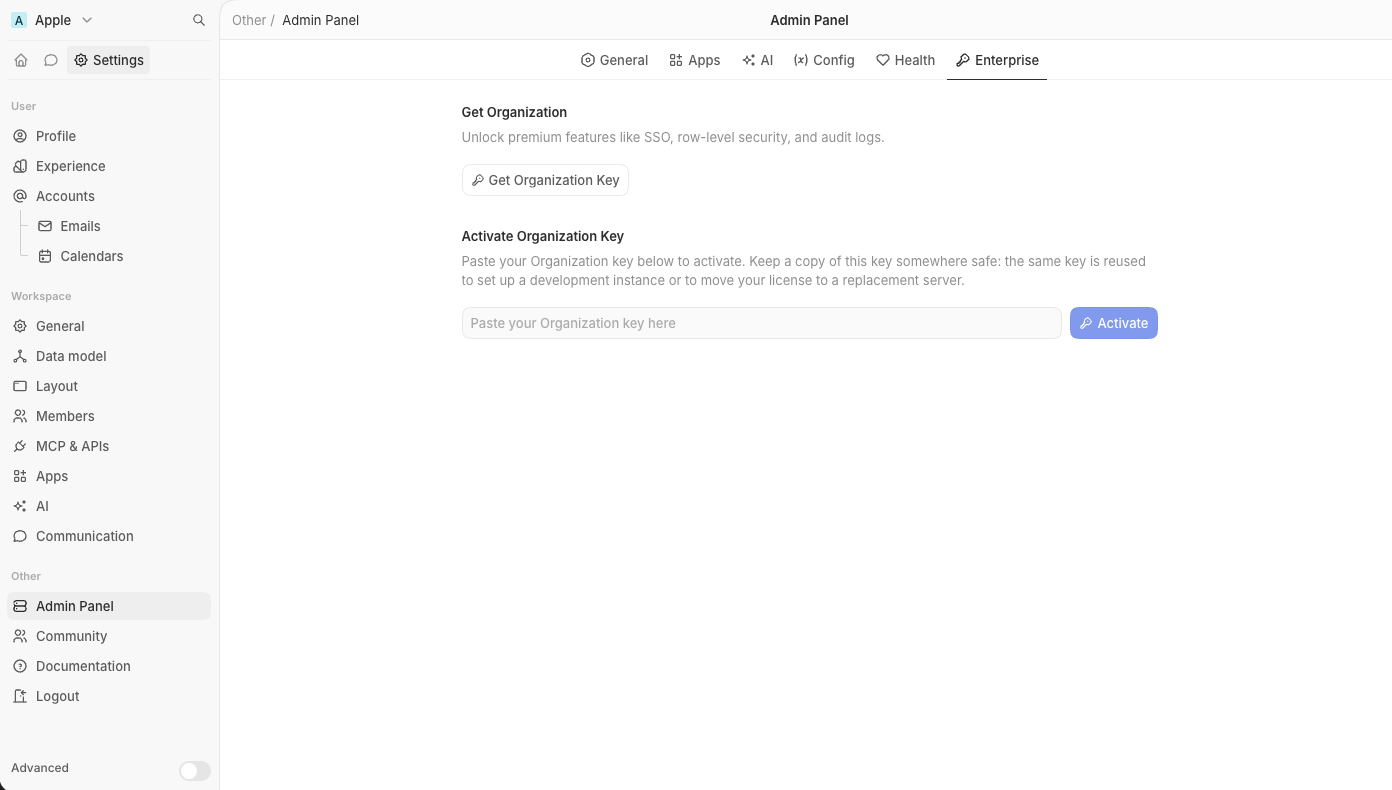
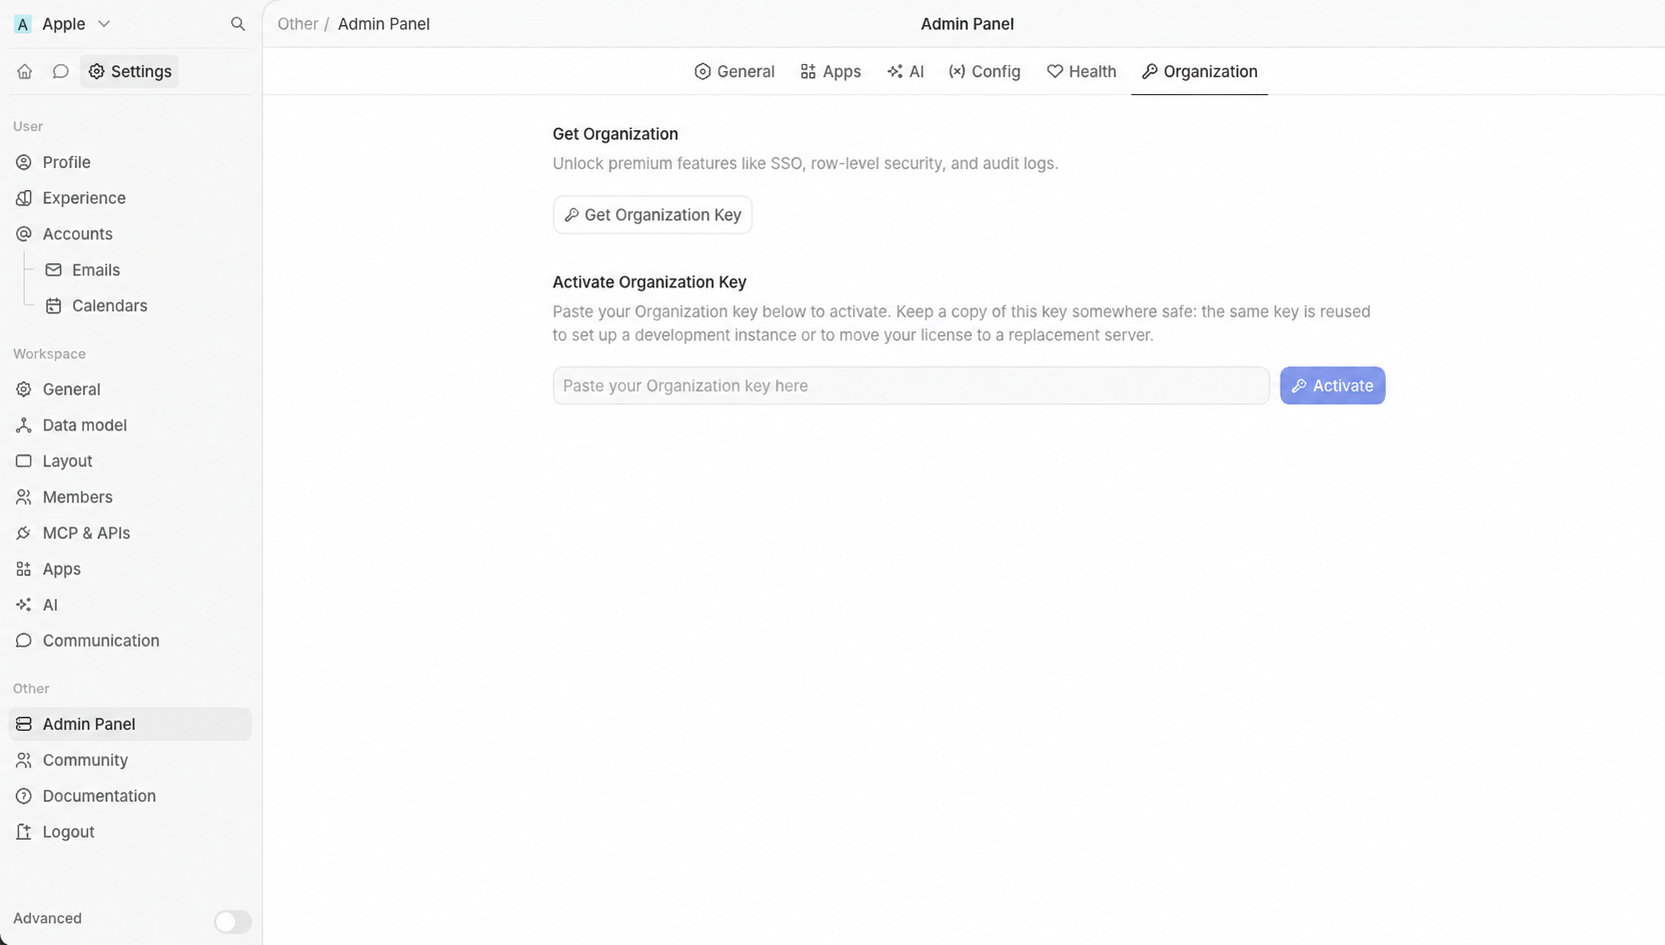
Complete Organization wording and activation route cleanup

diff --git a/packages/twenty-website/src/platform/routing/organization-activation-redirects.test.ts b/packages/twenty-website/src/platform/routing/organization-activation-redirects.test.ts
@@ -1,0 +1,38 @@
+import { type NextConfig } from 'next';
+import { pathToRegexp } from 'next/dist/compiled/path-to-regexp';
+
+import nextConfig from '../../../next.config';
+
+jest.mock('@opennextjs/cloudflare', () => ({
+  initOpenNextCloudflareForDev: jest.fn(),
+}));
+jest.mock('next-with-linaria', () => ({
+  __esModule: true,
+  default: (config: NextConfig) => config,
+}));
+
+describe('Organization activation redirects', () => {
+  it.each([
+    ['/enterprise/activate', '/organization/activate'],
+    ['/fr/enterprise/activate', '/fr/organization/activate'],
+    ['/ja/enterprise/activate', '/ja/organization/activate'],
+  ])('redirects %s to %s', async (source, expectedDestination) => {
+    const redirects = await nextConfig.redirects!();
+    const redirect = redirects.find(
+      (candidate) =>
+        !candidate.has && pathToRegexp(candidate.source).test(source),
+    );
+
+    expect(redirect).toBeDefined();
+    expect(redirect?.permanent).toBe(true);
+
+    const keys: { name: string | number }[] = [];
+    const match = pathToRegexp(redirect!.source, keys).exec(source)!;
+    const destination = keys.reduce(
+      (path, key, index) => path.replace(`:${key.name}`, match[index + 1]),
+      redirect!.destination,
+    );
+
+    expect(destination).toBe(expectedDestination);
+  });
+});

diff --git a/packages/twenty-website/next.config.ts b/packages/twenty-website/next.config.ts
@@ -119,6 +119,16 @@ const nextConfig: LinariaConfig = {
       // Strip the source-locale prefix: /en/foo → /foo (301).
       { source: '/en', destination: '/', statusCode: 301 },
       { source: '/en/:path*', destination: '/:path*', statusCode: 301 },
+      {
+        source: '/enterprise/activate',
+        destination: '/organization/activate',
+        permanent: true,
+      },
+      {
+        source: `/:locale(${WEBSITE_LOCALE_LIST.join('|')})/enterprise/activate`,
+        destination: '/:locale/organization/activate',
+        permanent: true,
+      },
       // /partners/list folded into the lead page, whose directory zone is the
       // same grid. Both the unprefixed and the locale-prefixed URLs were in the
       // sitemap, so both need the 308.

diff --git a/packages/twenty-front/src/modules/settings/event-logs/components/SettingsLogs.tsx b/packages/twenty-front/src/modules/settings/event-logs/components/SettingsLogs.tsx
@@ -168,7 +168,7 @@ export const SettingsLogs = () => {
       <SettingsOptionCardContentButton
         Icon={IconLock}
         title={t`Upgrade to access audit logs`}
-        description={t`Only application logs are available on your current plan. Other log types require an Enterprise subscription.`}
+        description={t`Only application logs are available on your current plan. Other log types require an Organization subscription.`}
         Button={
           <Button
             title={t`Upgrade`}

diff --git a/packages/twenty-website/src/app/api/enterprise/checkout/route.ts b/packages/twenty-website/src/app/api/enterprise/checkout/route.ts
@@ -28,7 +28,7 @@ export async function POST(request: Request) {
     const priceId = getEnterprisePriceId(billingInterval);
     const websiteUrl = process.env.NEXT_PUBLIC_WEBSITE_URL;
     const defaultSuccessUrl = websiteUrl
-      ? `${websiteUrl}/enterprise/activate?session_id={CHECKOUT_SESSION_ID}`
+      ? `${websiteUrl}/organization/activate?session_id={CHECKOUT_SESSION_ID}`
       : undefined;
     const successUrl =
       typeof body.successUrl === 'string' ? body.successUrl : defaultSuccessUrl;

diff --git a/packages/twenty-front/src/pages/settings/enterprise/SettingsEnterprise.tsx b/packages/twenty-front/src/pages/settings/enterprise/SettingsEnterprise.tsx
@@ -1034,13 +1034,13 @@ export const SettingsEnterprise = ({
 
   return (
     <SettingsPageLayout
-      title={t`Enterprise`}
+      title={t`Organization`}
       links={[
         {
           children: <Trans>Workspace</Trans>,
           href: getSettingsPath(SettingsPath.General),
         },
-        { children: <Trans>Enterprise</Trans> },
+        { children: <Trans>Organization</Trans> },
       ]}
     >
       <SettingsPageContainer>{innerContent}</SettingsPageContainer>

diff --git a/packages/twenty-front/src/modules/settings/security/components/SettingsSecuritySettings.tsx b/packages/twenty-front/src/modules/settings/security/components/SettingsSecuritySettings.tsx
@@ -230,8 +230,8 @@ export const SettingsSecuritySettings = () => {
             </Card>
           ) : (
             <SettingsEnterpriseFeatureGateCard
-              title={t`Enterprise feature`}
-              description={t`Upgrade to Enterprise to access audit logs.`}
+              title={t`Organization feature`}
+              description={t`Upgrade to Organization to access audit logs.`}
               buttonTitle={t`Activate`}
             />
           )}

diff --git a/packages/twenty-front/src/modules/settings/roles/role-permissions/object-level-permissions/record-level-permissions/components/SettingsRolePermissionsObjectLevelRecordLevelSection.tsx b/packages/twenty-front/src/modules/settings/roles/role-permissions/object-level-permissions/record-level-permissions/components/SettingsRolePermissionsObjectLevelRecordLevelSection.tsx
@@ -55,7 +55,7 @@ export const SettingsRolePermissionsObjectLevelRecordLevelSection = ({
             <SettingsOptionCardContentButton
               Icon={IconLock}
               title={t`Upgrade to access`}
-              description={t`This feature is part of the Enterprise Plan`}
+              description={t`This feature is part of the Organization plan`}
               Button={
                 <Button
                   title={t`Upgrade`}

diff --git a/packages/twenty-website/src/platform/routing/static-website-routes.ts b/packages/twenty-website/src/platform/routing/static-website-routes.ts
@@ -174,7 +174,7 @@ export const STATIC_WEBSITE_ROUTES: readonly WebsiteRoute[] = [
     description: msg`Activate your Twenty Organization license after checkout and copy your key into your self-hosted instance.`,
     id: 'enterpriseActivate',
     indexed: false,
-    path: '/enterprise/activate',
+    path: '/organization/activate',
     priority: 0.3,
     title: msg`Organization Activation | Twenty`,
   },
